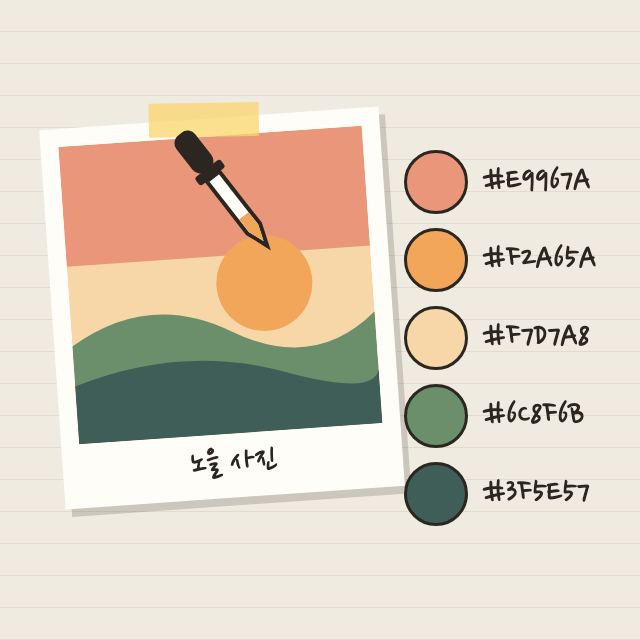
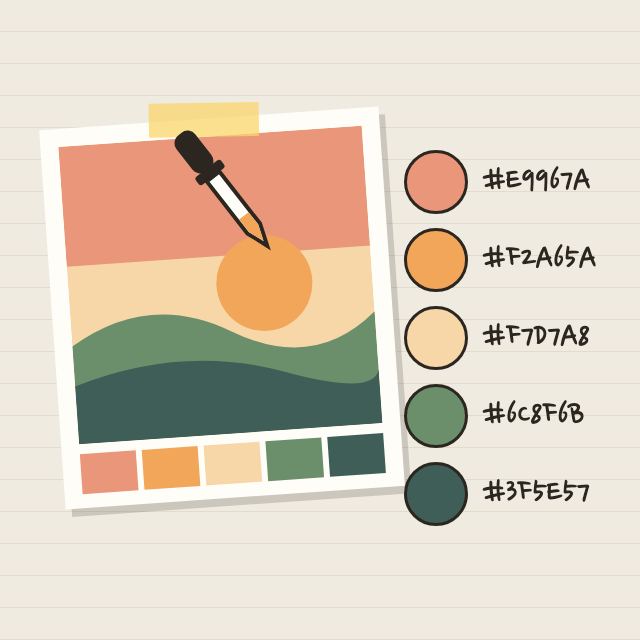
style : 색상 추출기 썸네일의 사진 설명 글자를 실제 팔레트처럼 색 막대로 바꾸고 Turbopack 빌드 패닉 기록 추가

Changed region(s): [[0.125, 0.6562, 0.625, 0.7812]]

diff --git a/docs/notes/2026-11-25-turbopack-segment-icon-svg-build-panic.md b/docs/notes/2026-11-25-turbopack-segment-icon-svg-build-panic.md
@@ -1,0 +1,22 @@
+# 같은 라우트 폴더의 icon.svg + icon.png로 인한 Turbopack 빌드 패닉
+
+## 증상
+- 서비스 앱의 Vercel 배포와 로컬 `next build`가 모두 Turbopack 내부 오류로 멈췄다(Next 16.1.6).
+  - 메시지: `TurbopackInternalError: Dependency tracking is disabled so invalidation is not allowed`
+  - 패닉 로그에도 원인 파일이 나오지 않는다.
+- 개발 서버(`next dev`)는 정상이라 배포할 때까지 알아채지 못했다.
+
+## 원인 좁히기
+1. 개발 서버·동시 작업의 영향을 없애려고 `git worktree add --detach <dir> <sha>` → `npm ci` → `next build`로 커밋 상태를 따로 빌드했다. 깨끗한 폴더에서도 재현돼 코드 문제로 확정했다.
+2. GitHub 커밋 상태(`gh api repos/<repo>/commits/<sha>/status`)에서 Vercel의 마지막 성공 커밋과 첫 실패 푸시를 찾아, 그 사이 커밋을 하나씩 빌드했다.
+3. 원인 커밋 안에서 메타데이터 파일을 하나씩 지워 빌드했다. `app/voyager/icon.svg`만 지우면 통과했다. 이 폴더에는 같은 이름 규칙의 `icon.png`가 함께 있었다.
+4. 다른 라우트(`app/stage-lighting/icon.svg`, `app/color-picker/icon.svg`)는 SVG 하나만 있어도 빌드가 통과했다. 원인은 SVG 자체가 아니라 **한 라우트 폴더에 `icon.svg`와 `icon.png`가 함께 있는 것**으로 본다.
+
+## 조치
+- 같은 폴더에 `icon.png`·`apple-icon.png`가 있어 SVG만 지웠다. 탭 아이콘은 PNG로 나온다.
+- 한 라우트 폴더에는 `icon.*` 파일을 하나만 둔다(SVG든 PNG든).
+- 루트의 `app/icon.svg`는 빌드에 문제가 없었다.
+
+## 관련 코드
+- `apps/services/app/voyager/` — `icon.png`, `apple-icon.png` (SVG 삭제)
+- `apps/services/app/icon.svg` — 루트 사이트 아이콘(정상)
